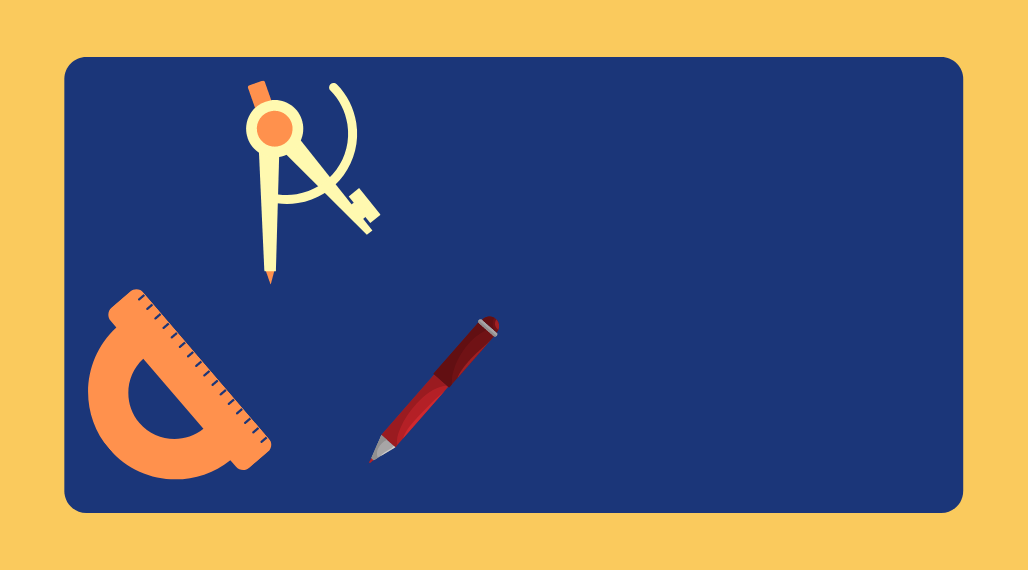
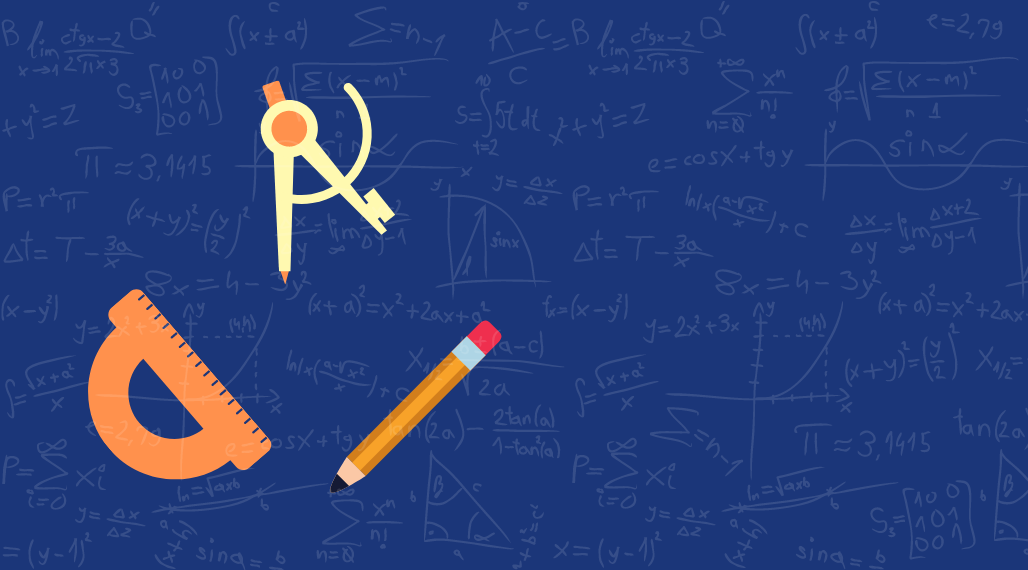
Picture changes

diff --git a/styles/main.css b/styles/main.css
@@ -47,34 +47,73 @@ header{
 }
 #nav_menu #flag{
     vertical-align: middle;
+    height: 30px;
+    width: auto;
 }
 main #section1, main #section2{
-    height: 620px;
+    height: 570px;
     width: 100%;
+    filter: saturate(0.5);
+    float: none;
 }
 main #section1
 {
     background-color: #da4944;
-    /*background-image: url(../images/section1.png);*/
     clear: both;
 }
 main #section2{
-    background-color: #faca5d;
-    /*background-image: url(../images/section2.png);*/
+    background-color: #1b3679;
+}
+main #section1:hover, main #section2:hover{
+    filter: none;
+}
+main section h3:hover, main section h3:focus{
+    cursor: pointer;
+    border: 5px solid #353537;
+}
+main section h3 a:hover, main section h3 a:focus{
+    color: #353537;
+}
+main img{
+    width: 1028px;
+    height: 570px;
+    float: left;
+    padding-left: 30px;
 }
 main a{
     text-decoration: none;
 }
+.container {
+    position: relative;
+    text-align: center;
+    color: white;
+}
 main h3{
     font-weight: bold;
-    font-size: xx-large;
     text-align: right;
     display: block;
     font-family: 'Quicksand', sans-serif;
+
+    float: left;
+    background-color: #fffbef;
+
+    position: absolute;
+    bottom: 150px;
+    right: 16px;
+    padding: 9px 20px 10px 40px;
+    border: 5px solid #f8cc48;
+    border-radius: 10px 0px 10px 0px;
+    font-size: 45px;
 }
 .line{
 	border-bottom:1px solid #416371;
     margin: 0 500px;
+}
+footer{
+    background-color: #f8f1f1;
+    color: #db6400;
+    font-weight: bold;
+    margin-top: 9px;
 }
 footer #contact{
     text-align: center;
@@ -82,7 +121,9 @@ footer #contact{
 footer p{
     text-align: center;
     font-weight: bold;
-    margin: 10px auto;
+    margin: 9px auto;
+    font-family: 'Source Sans Pro', sans-serif;
+    font-size: 20px;
 }
 footer ul{
     list-style-type: none;
@@ -92,14 +133,6 @@ footer ul li{
     padding: 0 5px;
 }
 footer img{
-    width: 35px;
-    height: 35px;
-}
-#flag{
-    width: 47px;
-    height: 35px;
-}
-i{
-    width: 35px;
-    height: 35px;
+    width: 30px;
+    height: 30px;
 }

diff --git a/index.html b/index.html
@@ -15,6 +15,9 @@
     <link rel="preconnect" href="https://fonts.gstatic.com">
     <link href="https://fonts.googleapis.com/css2?family=Quicksand:wght@500&display=swap" rel="stylesheet">
 
+    <link rel="preconnect" href="https://fonts.gstatic.com">
+    <link href="https://fonts.googleapis.com/css2?family=Source+Sans+Pro:wght@600&display=swap" rel="stylesheet">
+
     <!-- Icon -->
     <script src="https://use.fontawesome.com/1c72ed1d3a.js"></script>
     
@@ -36,12 +39,14 @@
     </header>
 
     <main>
-        <section id="section1">
-            <h3><a href="pages/practicequestions.html">Practice Question</a></h3>
+        <section id="section1" class="container">
+            <img src="images/section1.png" alt="">
+            <h3 class="bottom-right"><a href="pages/practicequestions.html">Practice Question</a></h3>
         </section>
 
-        <section id="section2">
-            <h3><a href="pages/downloadworksheet.html">Download Worksheet</a></h3>
+        <section id="section2" class="container">
+            <img src="images/section2.png" alt="">
+            <h3 class="bottom-right"><a href="pages/downloadworksheet.html">Download Worksheet</a></h3>
         </section>
     </main>
 
@@ -51,7 +56,6 @@
         <p>Contacts</p>
         <nav id="contact">
             <ul>
-                <li><a href="index_vi.html"><img src="images/vietnam.png" alt="Vietnamese" id="flag"></a></li>
                 <li><a href="mailto: hayden.huyp@gmail.com?cc=huy.ph2002@gmail.com"><img src="images/emailicon.svg" alt="Email Me"></a></li>
                 <li><a href="https://github.com/haydenhuyp"><img src="images/githubicon.svg" alt="My GitHub Page" target="_blank"></a></li>
                 <li><a href="https://www.linkedin.com/in/haydenhuy/"><img src="images/linkedinicon.svg" alt="My Linkedin Page" target="_blank"></a></li>
